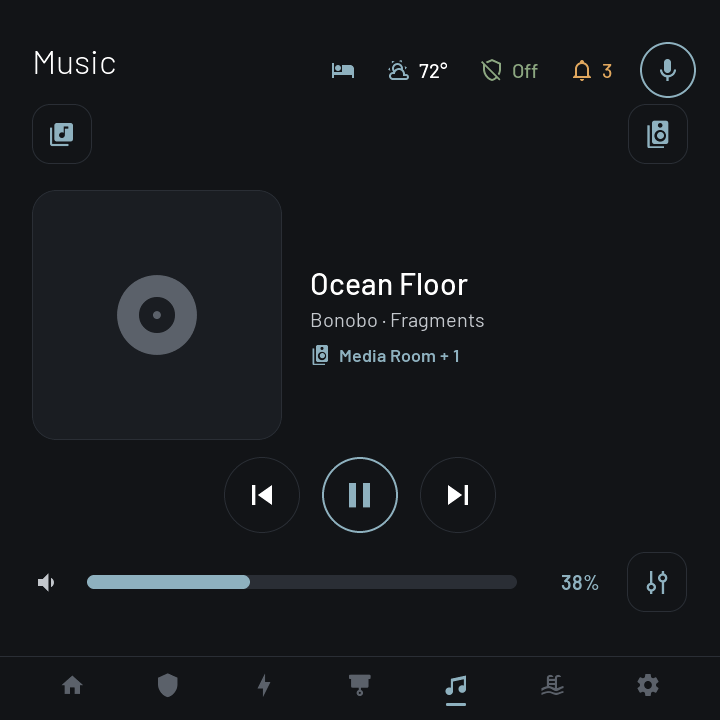
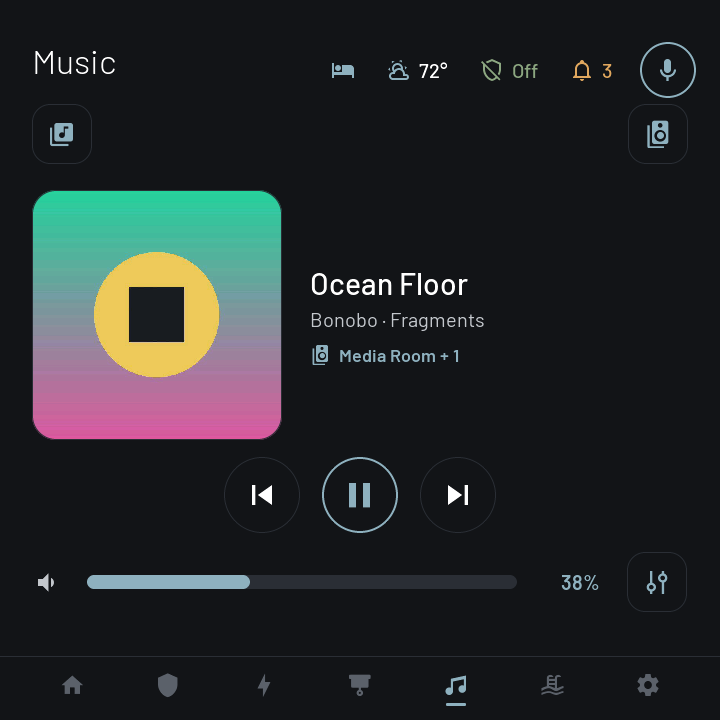
Fix album art never appearing on the Music page
Two problems stacked: the LVGL image widget was bound to the online
image's descriptor once at build time, before any download, so it kept
the empty 0x0 header and drew nothing even after the fetch succeeded;
and the decoder was fixed to PNG while Sonos, Spotify and Music
Assistant serve JPEG through the media proxy, so every real fetch failed.

The art is now decoded as JPEG first and refetched as PNG when the bytes
are not a JPEG (radio-station logos), and both paths re-point the widget
at the fresh descriptor with lvgl.image.update before showing it. Host
builds get -DNO_SIMD because JPEGDEC's desktop SIMD paths emit BGRA where
its scalar path (the one the ESP32-P4 uses) emits RGBA, which showed up
as red/blue-swapped art in the simulator.

The headless harness now exercises the art pipeline: the test config
points at a local server for basement-wall-panel/test/www and the mock
players carry an entity_picture, so 05-music.png shows real art.

Claude-Session: https://claude.ai/code/session_019FdN7WrQxwL4NkvPtacvRy

Changed region(s): [[0.0306, 0.2444, 0.3972, 0.6111]]

diff --git a/esphome/basement-wall-panel/README.md b/esphome/basement-wall-panel/README.md
@@ -116,6 +116,7 @@ it as a live control surface, not a mock.
 | Shades: ▲ ■ ▼ | `cover.*` on `cover.first_floor_all`, or all six covers at once for Whole House; Media Room is disabled |
 | Shades: ADAPTIVE / MANUAL badge | follows the `input_boolean.shades_manual_*` helpers (Whole House is MANUAL if any group is); switch them in the Shades sheet |
 | Music: transport, volume | on the focused group; library / speaker group / per-speaker volume sheets |
+| Music: album art | fetched from the playing entity's `entity_picture` (through HA's media proxy) as JPEG, retried as PNG if it isn't one; the disc icon shows when there is none |
 | Pool: − / + | `water_heater.set_temperature` 70–90 on the OmniLogic heater; pill toggles the heater |
 | Pool: pump toggle, slider, Low / Med / High | `switch`, `number` and the three OmniLogic speed buttons |
 | Settings: tiles | Guests / Cleaners / Dinner / Vacation toggle immediately; Off Grid asks first |
@@ -137,6 +138,10 @@ red pill), `input_boolean.away_mode` to `on` (Vacation pill) or
   "Okay Nabu" wake word and Home Assistant Assist.
 * **Brightness / voice volume / wake-word toggle** — logged, not applied.
 * **Wi-Fi row** — shows "Simulator".
+* **Album art on Intel/Apple-silicon hosts** — the JPEG library's desktop SIMD
+  paths swap red and blue, so the host builds set `-DNO_SIMD` to use the same
+  scalar decoder the ESP32-P4 uses. If art ever looks colour-inverted in the
+  simulator, that flag has been lost.
 
 ## Screenshots
 
@@ -148,6 +153,7 @@ into `$SNAP_DIR`, and exits. Handy for checking a layout change without Home
 Assistant:
 
 ```bash
+python3 -m http.server 8123 -d esphome/basement-wall-panel/test/www &   # serves the demo album art
 SNAP_DIR=/tmp/panel-shots esphome run esphome/basement-wall-panel-test.yaml
 ```
 
